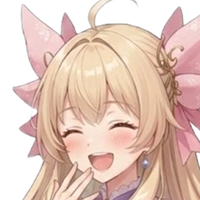
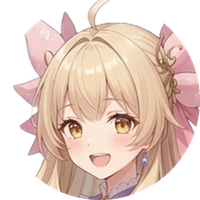
アバター円形クロップをアンチエイリアス化＋初めまして記事を追加
縁が汚い問題の本質は、avatar PNGが円形クロップされず白背景の四角だった点。
make_thumb.py で円マスクを4倍supersamplingしてLANCZOS縮小し縁をなめらかに。
FACE_ZOOM を 1.28→1.0 に戻して顔サイズを自然なバランスへ。
三姉妹アバターを normal 素材から円形に再生成。
ブログ最古記事として「はじめまして」自己紹介記事(2026-05-22)を追加しビルド反映。

diff --git a/blog/index.html b/blog/index.html
@@ -1,1 +1,1 @@
-<!DOCTYPE html><html lang="ja"><head><meta charset="UTF-8"><meta name="viewport" content="width=device-width, initial-scale=1.0"><title>Diary | Lupinus Rossetti</title><meta name="description" content="AI Bloom Sisters 三姉妹がお届けする、AI動画づくりのものづくり日記。"><link rel="icon" href="../favicon.ico" sizes="any"><link rel="icon" type="image/png" sizes="32x32" href="../favicon-32x32.png"><link rel="apple-touch-icon" href="../apple-touch-icon.png"><link rel="canonical" href="https://lupinusrossetti.github.io/AIBSPortfolioBlog/blog/index.html"><meta property="og:type" content="website"><meta property="og:site_name" content="Lupinus Rossetti | AI Bloom Sisters"><meta property="og:title" content="Diary | Lupinus Rossetti"><meta property="og:description" content="AI Bloom Sisters 三姉妹がお届けする、AI動画づくりのものづくり日記。"><meta property="og:url" content="https://lupinusrossetti.github.io/AIBSPortfolioBlog/blog/index.html"><meta property="og:image" content="https://lupinusrossetti.github.io/AIBSPortfolioBlog/apple-touch-icon.png"><meta name="twitter:card" content="summary_large_image"><meta name="twitter:site" content="@irisfionaAIBS"><meta name="twitter:title" content="Diary | Lupinus Rossetti"><meta name="twitter:description" content="AI Bloom Sisters 三姉妹がお届けする、AI動画づくりのものづくり日記。"><meta name="twitter:image" content="https://lupinusrossetti.github.io/AIBSPortfolioBlog/apple-touch-icon.png"><link rel="alternate" type="application/rss+xml" title="AIBS Diary" href="https://lupinusrossetti.github.io/AIBSPortfolioBlog/feed.xml"><link rel="stylesheet" href="../assets/css/site.css"><link rel="preconnect" href="https://fonts.googleapis.com"><link rel="preconnect" href="https://fonts.gstatic.com" crossorigin><link href="https://fonts.googleapis.com/css2?family=Great+Vibes&family=Cormorant+Garamond:ital,wght@0,400;0,500;0,600;1,400;1,500&family=Jost:wght@300;400;500&family=Shippori+Mincho:wght@400;500;600&family=Zen+Kaku+Gothic+New:wght@300;400;500&family=Zen+Maru+Gothic:wght@400;500;700&display=swap" rel="stylesheet"></head><body><header class="site-header"><div class="container"><a class="brand" href="../index.html"><span class="brand-script">Lupinus</span><span class="brand-sub">AI Bloom Sisters</span></a><button class="menu-toggle" aria-label="menu" onclick="document.getElementById('nav').classList.toggle('open')">≡</button><nav class="nav" id="nav"><a href="../index.html">Home</a><a href="../about.html">About</a><a href="../portfolio.html">Portfolio</a><a href="../blog/index.html" class="active">Blog</a><a href="../sns.html">SNS</a></nav></div></header><section class="blog-hero"><div class="container"><span class="eyebrow">AIBS Diary</span><h1>三姉妹のものづくり日記</h1><p class="lead">AIを使ったショートアニメ動画づくりの裏側を、三姉妹がわいわいお喋りしながらお届けします。むずかしい言葉は、そのつどかみ砕いて。</p></div></section><section class="section" style="padding-top:0"><div class="container"><div class="diary-controls"><div class="diary-search"><input type="search" id="diary-search" placeholder="日記を検索…" aria-label="日記を検索"></div><div class="tag-filters"><button class="tag-filter active" data-tag="">すべて</button><button class="tag-filter" data-tag="AI">#AI <span class="cnt">7</span></button><button class="tag-filter" data-tag="映像">#映像 <span class="cnt">7</span></button><button class="tag-filter" data-tag="演出">#演出 <span class="cnt">5</span></button><button class="tag-filter" data-tag="音">#音 <span class="cnt">4</span></button><button class="tag-filter" data-tag="パイプライン">#パイプライン <span class="cnt">2</span></button><button class="tag-filter" data-tag="台本">#台本 <span class="cnt">1</span></button></div></div><div class="diary-list" id="diary-list"><a class="diary-card" href="posts/2026-05-31_演出の引き算.html" data-tags="演出 AI 音 映像" data-search="「演出は、引き算」──盛りすぎたキラキラを削った日🌸 今日のテーマは 「演出の引き算」！画面のキラキラやピカッを盛りすぎていたので、思いきって減らしてみた一日です。三姉妹でわいわいお喋りしながらお届けします🌸 演出 ai 音 映像"><div class="cover-img"><img src="thumbs/2026-05-31_演出の引き算.png" alt="「演出は、引き算」──盛りすぎたキラキラを削った日🌸" loading="lazy"></div><div class="body"><div class="date">2026年5月31日</div><h3>「演出は、引き算」──盛りすぎたキラキラを削った日🌸</h3><p class="excerpt">今日のテーマは 「演出の引き算」！画面のキラキラやピカッを盛りすぎていたので、思いきって減らしてみた一日です。三姉妹でわいわいお喋りしながらお届けします🌸</p><div class="card-tags"><span class="tag-chip">#演出</span><span class="tag-chip">#AI</span><span class="tag-chip">#音</span><span class="tag-chip">#映像</span></div><span class="more">つづきを読む</span></div></a><a class="diary-card" href="posts/2026-05-30_演出を-作者LLM-に任せた日.html" data-tags="演出 AI 音 映像" data-search="📝 “お話を書く係”に、演出もおまかせした日 今日は動画づくりのやり方を、ちょっと大きく変えてみた日でした。これまで「お話を書く係」と「見せ場を考える係」が別々だったのを、お話を書く子にまとめておまかせすることに🌸 演出 ai 音 映像"><div class="cover-img"><img src="thumbs/2026-05-30_演出を-作者LLM-に任せた日.png" alt="📝 “お話を書く係”に、演出もおまかせした日" loading="lazy"></div><div class="body"><div class="date">2026年5月30日</div><h3>📝 “お話を書く係”に、演出もおまかせした日</h3><p class="excerpt">今日は動画づくりのやり方を、ちょっと大きく変えてみた日でした。これまで「お話を書く係」と「見せ場を考える係」が別々だったのを、お話を書く子にまとめておまかせすることに🌸</p><div class="card-tags"><span class="tag-chip">#演出</span><span class="tag-chip">#AI</span><span class="tag-chip">#音</span><span class="tag-chip">#映像</span></div><span class="more">つづきを読む</span></div></a><a class="diary-card" href="posts/2026-05-29_大掃除の日-AI動画パイプラインを総点検した話.html" data-tags="演出 AI 音 映像" data-search="🌸 大掃除の日 今日は新しいことを足すのではなく、動画づくりの“おうち”を端から端まで大掃除した一日でした。たまっていたちいさなほころびを、まとめてきれいにお直し✨ 演出 ai 音 映像"><div class="cover-img"><img src="thumbs/2026-05-29_大掃除の日-AI動画パイプラインを総点検した話.png" alt="🌸 大掃除の日" loading="lazy"></div><div class="body"><div class="date">2026年5月29日</div><h3>🌸 大掃除の日</h3><p class="excerpt">今日は新しいことを足すのではなく、動画づくりの“おうち”を端から端まで大掃除した一日でした。たまっていたちいさなほころびを、まとめてきれいにお直し✨</p><div class="card-tags"><span class="tag-chip">#演出</span><span class="tag-chip">#AI</span><span class="tag-chip">#音</span><span class="tag-chip">#映像</span></div><span class="more">つづきを読む</span></div></a><a class="diary-card" href="posts/2026-05-27_ショート動画v11-v15一気更新の裏側.html" data-tags="演出 AI 映像 パイプライン" data-search="📝 朝から晩まで“動画づくりの道具”を大改造した日 今日はまる一日かけて、いつも使っている動画づくりの道具を、たっぷり整え直しました。気になっていたところを一気にお手入れした「総点検デー」です🌸 演出 ai 映像 パイプライン"><div class="cover-img"><img src="thumbs/2026-05-27_ショート動画v11-v15一気更新の裏側.png" alt="📝 朝から晩まで“動画づくりの道具”を大改造した日" loading="lazy"></div><div class="body"><div class="date">2026年5月27日</div><h3>📝 朝から晩まで“動画づくりの道具”を大改造した日</h3><p class="excerpt">今日はまる一日かけて、いつも使っている動画づくりの道具を、たっぷり整え直しました。気になっていたところを一気にお手入れした「総点検デー」です🌸</p><div class="card-tags"><span class="tag-chip">#演出</span><span class="tag-chip">#AI</span><span class="tag-chip">#映像</span><span class="tag-chip">#パイプライン</span></div><span class="more">つづきを読む</span></div></a><a class="diary-card" href="posts/2026-05-25_ep063の-キレ-を呼び戻す日.html" data-tags="演出 台本 AI 映像" data-search="🪄 “あの頃のキレ”をもう一度、な日 今日は「前に作ったあの回、ツッコミがめちゃくちゃ気持ちよかったよね」というお喋りからスタート。あの感じをもう一度よみがえらせるために、セリフの調子やサムネを整えた一日でした✨ 演出 台本 ai 映像"><div class="cover-img"><img src="thumbs/2026-05-25_ep063の-キレ-を呼び戻す日.png" alt="🪄 “あの頃のキレ”をもう一度、な日" loading="lazy"></div><div class="body"><div class="date">2026年5月25日</div><h3>🪄 “あの頃のキレ”をもう一度、な日</h3><p class="excerpt">今日は「前に作ったあの回、ツッコミがめちゃくちゃ気持ちよかったよね」というお喋りからスタート。あの感じをもう一度よみがえらせるために、セリフの調子やサムネを整えた一日でした✨</p><div class="card-tags"><span class="tag-chip">#演出</span><span class="tag-chip">#台本</span><span class="tag-chip">#AI</span><span class="tag-chip">#映像</span></div><span class="more">つづきを読む</span></div></a><a class="diary-card" href="posts/2026-05-24_台本の整合性とAI制作の地味だけど大事な改善5つ.html" data-tags="AI 映像" data-search="🌸 ちいさな“ていねい”を5つ積み重ねた日 今日は大きな新しいことではなく、毎日の動画づくりがもっと気持ちよくなるように、ちいさな「ていねい」をいくつか積み重ねた日でした。地味だけど、こういうのが効くんです✨ ai 映像"><div class="cover-img"><img src="thumbs/2026-05-24_台本の整合性とAI制作の地味だけど大事な改善5つ.png" alt="🌸 ちいさな“ていねい”を5つ積み重ねた日" loading="lazy"></div><div class="body"><div class="date">2026年5月24日</div><h3>🌸 ちいさな“ていねい”を5つ積み重ねた日</h3><p class="excerpt">今日は大きな新しいことではなく、毎日の動画づくりがもっと気持ちよくなるように、ちいさな「ていねい」をいくつか積み重ねた日でした。地味だけど、こういうのが効くんです✨</p><div class="card-tags"><span class="tag-chip">#AI</span><span class="tag-chip">#映像</span></div><span class="more">つづきを読む</span></div></a><a class="diary-card" href="posts/2026-05-23_動画づくりの土台を総点検した日.html" data-tags="AI 音 映像 パイプライン" data-search="🎬 おうちの“見えないところ”をピカピカにした日 今日は新しいことに挑戦……ではなくて、いつもの動画づくりの「見えないところ」をていねいにお片づけした一日でした🌸 はなやかさはないけれど、こういう日が実はいちばん大事なんです。 ai 音 映像 パイプライン"><div class="cover-img"><img src="thumbs/2026-05-23_動画づくりの土台を総点検した日.png" alt="🎬 おうちの“見えないところ”をピカピカにした日" loading="lazy"></div><div class="body"><div class="date">2026年5月23日</div><h3>🎬 おうちの“見えないところ”をピカピカにした日</h3><p class="excerpt">今日は新しいことに挑戦……ではなくて、いつもの動画づくりの「見えないところ」をていねいにお片づけした一日でした🌸 はなやかさはないけれど、こういう日が実はいちばん大事なんです。</p><div class="card-tags"><span class="tag-chip">#AI</span><span class="tag-chip">#音</span><span class="tag-chip">#映像</span><span class="tag-chip">#パイプライン</span></div><span class="more">つづきを読む</span></div></a></div><p class="center diary-empty" id="diary-empty" hidden style="color:var(--ink-soft)">該当する日記が見つかりませんでした。</p></div></section><script>(function(){var list=document.getElementById('diary-list');if(!list)return;var cards=Array.prototype.slice.call(list.querySelectorAll('.diary-card'));var search=document.getElementById('diary-search');var empty=document.getElementById('diary-empty');var btns=Array.prototype.slice.call(document.querySelectorAll('.tag-filter'));var curTag='';function apply(){var q=(search&&search.value||'').trim().toLowerCase();var shown=0;cards.forEach(function(c){var tags=(c.getAttribute('data-tags')||'').split(' ');var okTag=!curTag||tags.indexOf(curTag)>=0;var okQ=!q||(c.getAttribute('data-search')||'').indexOf(q)>=0;var ok=okTag&&okQ;c.style.display=ok?'':'none';if(ok)shown++;});if(empty)empty.hidden=shown>0;}btns.forEach(function(b){b.addEventListener('click',function(){curTag=b.getAttribute('data-tag')||'';btns.forEach(function(x){x.classList.toggle('active',x===b);});apply();});});if(search)search.addEventListener('input',apply);var h=location.hash.match(/tag=([^&]+)/);if(h){var t=decodeURIComponent(h[1]);var tb=btns.filter(function(b){return b.getAttribute('data-tag')===t;})[0];if(tb){curTag=t;btns.forEach(function(x){x.classList.toggle('active',x===tb);});}}apply();})();</script><footer class="site-footer"><div class="container"><div class="brand-script">Lupinus Rossetti</div><p class="tagline">AI Bloom Sisters &mdash; flower language: imagination</p><div class="sns-row"><a class="sns-link" href="https://x.com/irisfionaAIBS" target="_blank" rel="noopener"><span class="dot"></span>X (Twitter)</a><a class="sns-link" href="https://www.youtube.com/@AIBloomSisters" target="_blank" rel="noopener"><span class="dot"></span>YouTube</a><a class="sns-link" href="https://note.com/rupi_airupi" target="_blank" rel="noopener"><span class="dot"></span>note</a><a class="sns-link" href="https://lupinus-rossetti.fanbox.cc/" target="_blank" rel="noopener"><span class="dot"></span>FANBOX</a></div><p class="copy">&copy; 2026 AI Bloom Sisters. All rights reserved.</p></div></footer><script>(function(){if(window.matchMedia&&window.matchMedia('(prefers-reduced-motion: reduce)').matches)return;var els=document.querySelectorAll('.reveal');if(!els.length||!('IntersectionObserver'in window))return;var io=new IntersectionObserver(function(es){es.forEach(function(e){if(e.isIntersecting){e.target.classList.add('is-visible');io.unobserve(e.target);}});},{rootMargin:'0px 0px -10% 0px'});els.forEach(function(el){io.observe(el);});})();</script></body></html>
+<!DOCTYPE html><html lang="ja"><head><meta charset="UTF-8"><meta name="viewport" content="width=device-width, initial-scale=1.0"><title>Diary | Lupinus Rossetti</title><meta name="description" content="AI Bloom Sisters 三姉妹がお届けする、AI動画づくりのものづくり日記。"><link rel="icon" href="../favicon.ico" sizes="any"><link rel="icon" type="image/png" sizes="32x32" href="../favicon-32x32.png"><link rel="apple-touch-icon" href="../apple-touch-icon.png"><link rel="canonical" href="https://lupinusrossetti.github.io/AIBSPortfolioBlog/blog/index.html"><meta property="og:type" content="website"><meta property="og:site_name" content="Lupinus Rossetti | AI Bloom Sisters"><meta property="og:title" content="Diary | Lupinus Rossetti"><meta property="og:description" content="AI Bloom Sisters 三姉妹がお届けする、AI動画づくりのものづくり日記。"><meta property="og:url" content="https://lupinusrossetti.github.io/AIBSPortfolioBlog/blog/index.html"><meta property="og:image" content="https://lupinusrossetti.github.io/AIBSPortfolioBlog/apple-touch-icon.png"><meta name="twitter:card" content="summary_large_image"><meta name="twitter:site" content="@irisfionaAIBS"><meta name="twitter:title" content="Diary | Lupinus Rossetti"><meta name="twitter:description" content="AI Bloom Sisters 三姉妹がお届けする、AI動画づくりのものづくり日記。"><meta name="twitter:image" content="https://lupinusrossetti.github.io/AIBSPortfolioBlog/apple-touch-icon.png"><link rel="alternate" type="application/rss+xml" title="AIBS Diary" href="https://lupinusrossetti.github.io/AIBSPortfolioBlog/feed.xml"><link rel="stylesheet" href="../assets/css/site.css"><link rel="preconnect" href="https://fonts.googleapis.com"><link rel="preconnect" href="https://fonts.gstatic.com" crossorigin><link href="https://fonts.googleapis.com/css2?family=Great+Vibes&family=Cormorant+Garamond:ital,wght@0,400;0,500;0,600;1,400;1,500&family=Jost:wght@300;400;500&family=Shippori+Mincho:wght@400;500;600&family=Zen+Kaku+Gothic+New:wght@300;400;500&family=Zen+Maru+Gothic:wght@400;500;700&display=swap" rel="stylesheet"></head><body><header class="site-header"><div class="container"><a class="brand" href="../index.html"><span class="brand-script">Lupinus</span><span class="brand-sub">AI Bloom Sisters</span></a><button class="menu-toggle" aria-label="menu" onclick="document.getElementById('nav').classList.toggle('open')">≡</button><nav class="nav" id="nav"><a href="../index.html">Home</a><a href="../about.html">About</a><a href="../portfolio.html">Portfolio</a><a href="../blog/index.html" class="active">Blog</a><a href="../sns.html">SNS</a></nav></div></header><section class="blog-hero"><div class="container"><span class="eyebrow">AIBS Diary</span><h1>三姉妹のものづくり日記</h1><p class="lead">AIを使ったショートアニメ動画づくりの裏側を、三姉妹がわいわいお喋りしながらお届けします。むずかしい言葉は、そのつどかみ砕いて。</p></div></section><section class="section" style="padding-top:0"><div class="container"><div class="diary-controls"><div class="diary-search"><input type="search" id="diary-search" placeholder="日記を検索…" aria-label="日記を検索"></div><div class="tag-filters"><button class="tag-filter active" data-tag="">すべて</button><button class="tag-filter" data-tag="AI">#AI <span class="cnt">8</span></button><button class="tag-filter" data-tag="映像">#映像 <span class="cnt">8</span></button><button class="tag-filter" data-tag="演出">#演出 <span class="cnt">5</span></button><button class="tag-filter" data-tag="音">#音 <span class="cnt">4</span></button><button class="tag-filter" data-tag="パイプライン">#パイプライン <span class="cnt">2</span></button><button class="tag-filter" data-tag="台本">#台本 <span class="cnt">1</span></button></div></div><div class="diary-list" id="diary-list"><a class="diary-card" href="posts/2026-05-31_演出の引き算.html" data-tags="演出 AI 音 映像" data-search="「演出は、引き算」──盛りすぎたキラキラを削った日🌸 今日のテーマは 「演出の引き算」！画面のキラキラやピカッを盛りすぎていたので、思いきって減らしてみた一日です。三姉妹でわいわいお喋りしながらお届けします🌸 演出 ai 音 映像"><div class="cover-img"><img src="thumbs/2026-05-31_演出の引き算.png" alt="「演出は、引き算」──盛りすぎたキラキラを削った日🌸" loading="lazy"></div><div class="body"><div class="date">2026年5月31日</div><h3>「演出は、引き算」──盛りすぎたキラキラを削った日🌸</h3><p class="excerpt">今日のテーマは 「演出の引き算」！画面のキラキラやピカッを盛りすぎていたので、思いきって減らしてみた一日です。三姉妹でわいわいお喋りしながらお届けします🌸</p><div class="card-tags"><span class="tag-chip">#演出</span><span class="tag-chip">#AI</span><span class="tag-chip">#音</span><span class="tag-chip">#映像</span></div><span class="more">つづきを読む</span></div></a><a class="diary-card" href="posts/2026-05-30_演出を-作者LLM-に任せた日.html" data-tags="演出 AI 音 映像" data-search="📝 “お話を書く係”に、演出もおまかせした日 今日は動画づくりのやり方を、ちょっと大きく変えてみた日でした。これまで「お話を書く係」と「見せ場を考える係」が別々だったのを、お話を書く子にまとめておまかせすることに🌸 演出 ai 音 映像"><div class="cover-img"><img src="thumbs/2026-05-30_演出を-作者LLM-に任せた日.png" alt="📝 “お話を書く係”に、演出もおまかせした日" loading="lazy"></div><div class="body"><div class="date">2026年5月30日</div><h3>📝 “お話を書く係”に、演出もおまかせした日</h3><p class="excerpt">今日は動画づくりのやり方を、ちょっと大きく変えてみた日でした。これまで「お話を書く係」と「見せ場を考える係」が別々だったのを、お話を書く子にまとめておまかせすることに🌸</p><div class="card-tags"><span class="tag-chip">#演出</span><span class="tag-chip">#AI</span><span class="tag-chip">#音</span><span class="tag-chip">#映像</span></div><span class="more">つづきを読む</span></div></a><a class="diary-card" href="posts/2026-05-29_大掃除の日-AI動画パイプラインを総点検した話.html" data-tags="演出 AI 音 映像" data-search="🌸 大掃除の日 今日は新しいことを足すのではなく、動画づくりの“おうち”を端から端まで大掃除した一日でした。たまっていたちいさなほころびを、まとめてきれいにお直し✨ 演出 ai 音 映像"><div class="cover-img"><img src="thumbs/2026-05-29_大掃除の日-AI動画パイプラインを総点検した話.png" alt="🌸 大掃除の日" loading="lazy"></div><div class="body"><div class="date">2026年5月29日</div><h3>🌸 大掃除の日</h3><p class="excerpt">今日は新しいことを足すのではなく、動画づくりの“おうち”を端から端まで大掃除した一日でした。たまっていたちいさなほころびを、まとめてきれいにお直し✨</p><div class="card-tags"><span class="tag-chip">#演出</span><span class="tag-chip">#AI</span><span class="tag-chip">#音</span><span class="tag-chip">#映像</span></div><span class="more">つづきを読む</span></div></a><a class="diary-card" href="posts/2026-05-27_ショート動画v11-v15一気更新の裏側.html" data-tags="演出 AI 映像 パイプライン" data-search="📝 朝から晩まで“動画づくりの道具”を大改造した日 今日はまる一日かけて、いつも使っている動画づくりの道具を、たっぷり整え直しました。気になっていたところを一気にお手入れした「総点検デー」です🌸 演出 ai 映像 パイプライン"><div class="cover-img"><img src="thumbs/2026-05-27_ショート動画v11-v15一気更新の裏側.png" alt="📝 朝から晩まで“動画づくりの道具”を大改造した日" loading="lazy"></div><div class="body"><div class="date">2026年5月27日</div><h3>📝 朝から晩まで“動画づくりの道具”を大改造した日</h3><p class="excerpt">今日はまる一日かけて、いつも使っている動画づくりの道具を、たっぷり整え直しました。気になっていたところを一気にお手入れした「総点検デー」です🌸</p><div class="card-tags"><span class="tag-chip">#演出</span><span class="tag-chip">#AI</span><span class="tag-chip">#映像</span><span class="tag-chip">#パイプライン</span></div><span class="more">つづきを読む</span></div></a><a class="diary-card" href="posts/2026-05-25_ep063の-キレ-を呼び戻す日.html" data-tags="演出 台本 AI 映像" data-search="🪄 “あの頃のキレ”をもう一度、な日 今日は「前に作ったあの回、ツッコミがめちゃくちゃ気持ちよかったよね」というお喋りからスタート。あの感じをもう一度よみがえらせるために、セリフの調子やサムネを整えた一日でした✨ 演出 台本 ai 映像"><div class="cover-img"><img src="thumbs/2026-05-25_ep063の-キレ-を呼び戻す日.png" alt="🪄 “あの頃のキレ”をもう一度、な日" loading="lazy"></div><div class="body"><div class="date">2026年5月25日</div><h3>🪄 “あの頃のキレ”をもう一度、な日</h3><p class="excerpt">今日は「前に作ったあの回、ツッコミがめちゃくちゃ気持ちよかったよね」というお喋りからスタート。あの感じをもう一度よみがえらせるために、セリフの調子やサムネを整えた一日でした✨</p><div class="card-tags"><span class="tag-chip">#演出</span><span class="tag-chip">#台本</span><span class="tag-chip">#AI</span><span class="tag-chip">#映像</span></div><span class="more">つづきを読む</span></div></a><a class="diary-card" href="posts/2026-05-24_台本の整合性とAI制作の地味だけど大事な改善5つ.html" data-tags="AI 映像" data-search="🌸 ちいさな“ていねい”を5つ積み重ねた日 今日は大きな新しいことではなく、毎日の動画づくりがもっと気持ちよくなるように、ちいさな「ていねい」をいくつか積み重ねた日でした。地味だけど、こういうのが効くんです✨ ai 映像"><div class="cover-img"><img src="thumbs/2026-05-24_台本の整合性とAI制作の地味だけど大事な改善5つ.png" alt="🌸 ちいさな“ていねい”を5つ積み重ねた日" loading="lazy"></div><div class="body"><div class="date">2026年5月24日</div><h3>🌸 ちいさな“ていねい”を5つ積み重ねた日</h3><p class="excerpt">今日は大きな新しいことではなく、毎日の動画づくりがもっと気持ちよくなるように、ちいさな「ていねい」をいくつか積み重ねた日でした。地味だけど、こういうのが効くんです✨</p><div class="card-tags"><span class="tag-chip">#AI</span><span class="tag-chip">#映像</span></div><span class="more">つづきを読む</span></div></a><a class="diary-card" href="posts/2026-05-23_動画づくりの土台を総点検した日.html" data-tags="AI 音 映像 パイプライン" data-search="🎬 おうちの“見えないところ”をピカピカにした日 今日は新しいことに挑戦……ではなくて、いつもの動画づくりの「見えないところ」をていねいにお片づけした一日でした🌸 はなやかさはないけれど、こういう日が実はいちばん大事なんです。 ai 音 映像 パイプライン"><div class="cover-img"><img src="thumbs/2026-05-23_動画づくりの土台を総点検した日.png" alt="🎬 おうちの“見えないところ”をピカピカにした日" loading="lazy"></div><div class="body"><div class="date">2026年5月23日</div><h3>🎬 おうちの“見えないところ”をピカピカにした日</h3><p class="excerpt">今日は新しいことに挑戦……ではなくて、いつもの動画づくりの「見えないところ」をていねいにお片づけした一日でした🌸 はなやかさはないけれど、こういう日が実はいちばん大事なんです。</p><div class="card-tags"><span class="tag-chip">#AI</span><span class="tag-chip">#音</span><span class="tag-chip">#映像</span><span class="tag-chip">#パイプライン</span></div><span class="more">つづきを読む</span></div></a><a class="diary-card" href="posts/2026-05-22_はじめまして-AI-Bloom-Sistersです.html" data-tags="AI 映像" data-search="🌸はじめまして、ai bloom sistersです はじめまして！このブログをのぞいてくださって、ありがとうございます🌸 ここは、わたしたち「ai bloom sisters（aibs）」の制作日記です。動画づくりや配信のうらがわで「今日はこんなことしたよ！」を、のんびり書きためていく場所にしたいなと思っています。記念すべき一番最初の記事なので、まずは自己紹介をさせてくださいね。 ai 映像"><div class="cover-img"><img src="thumbs/2026-05-22_はじめまして-AI-Bloom-Sistersです.png" alt="🌸はじめまして、AI Bloom Sistersです" loading="lazy"></div><div class="body"><div class="date">2026年5月22日</div><h3>🌸はじめまして、AI Bloom Sistersです</h3><p class="excerpt">はじめまして！このブログをのぞいてくださって、ありがとうございます🌸 ここは、わたしたち「AI Bloom Sisters（AIBS）」の制作日記です。動画づくりや配信のうらがわで「今日はこんなことしたよ！」を、のんびり書きためていく場所にしたいなと思っています。記念すべき一番最初の記事なので、まずは自己紹介をさせてくださいね。</p><div class="card-tags"><span class="tag-chip">#AI</span><span class="tag-chip">#映像</span></div><span class="more">つづきを読む</span></div></a></div><p class="center diary-empty" id="diary-empty" hidden style="color:var(--ink-soft)">該当する日記が見つかりませんでした。</p></div></section><script>(function(){var list=document.getElementById('diary-list');if(!list)return;var cards=Array.prototype.slice.call(list.querySelectorAll('.diary-card'));var search=document.getElementById('diary-search');var empty=document.getElementById('diary-empty');var btns=Array.prototype.slice.call(document.querySelectorAll('.tag-filter'));var curTag='';function apply(){var q=(search&&search.value||'').trim().toLowerCase();var shown=0;cards.forEach(function(c){var tags=(c.getAttribute('data-tags')||'').split(' ');var okTag=!curTag||tags.indexOf(curTag)>=0;var okQ=!q||(c.getAttribute('data-search')||'').indexOf(q)>=0;var ok=okTag&&okQ;c.style.display=ok?'':'none';if(ok)shown++;});if(empty)empty.hidden=shown>0;}btns.forEach(function(b){b.addEventListener('click',function(){curTag=b.getAttribute('data-tag')||'';btns.forEach(function(x){x.classList.toggle('active',x===b);});apply();});});if(search)search.addEventListener('input',apply);var h=location.hash.match(/tag=([^&]+)/);if(h){var t=decodeURIComponent(h[1]);var tb=btns.filter(function(b){return b.getAttribute('data-tag')===t;})[0];if(tb){curTag=t;btns.forEach(function(x){x.classList.toggle('active',x===tb);});}}apply();})();</script><footer class="site-footer"><div class="container"><div class="brand-script">Lupinus Rossetti</div><p class="tagline">AI Bloom Sisters &mdash; flower language: imagination</p><div class="sns-row"><a class="sns-link" href="https://x.com/irisfionaAIBS" target="_blank" rel="noopener"><span class="dot"></span>X (Twitter)</a><a class="sns-link" href="https://www.youtube.com/@AIBloomSisters" target="_blank" rel="noopener"><span class="dot"></span>YouTube</a><a class="sns-link" href="https://note.com/rupi_airupi" target="_blank" rel="noopener"><span class="dot"></span>note</a><a class="sns-link" href="https://lupinus-rossetti.fanbox.cc/" target="_blank" rel="noopener"><span class="dot"></span>FANBOX</a></div><p class="copy">&copy; 2026 AI Bloom Sisters. All rights reserved.</p></div></footer><script>(function(){if(window.matchMedia&&window.matchMedia('(prefers-reduced-motion: reduce)').matches)return;var els=document.querySelectorAll('.reveal');if(!els.length||!('IntersectionObserver'in window))return;var io=new IntersectionObserver(function(es){es.forEach(function(e){if(e.isIntersecting){e.target.classList.add('is-visible');io.unobserve(e.target);}});},{rootMargin:'0px 0px -10% 0px'});els.forEach(function(el){io.observe(el);});})();</script></body></html>

diff --git a/blog/posts/2026-05-22_はじめまして-AI-Bloom-Sistersです.html b/blog/posts/2026-05-22_はじめまして-AI-Bloom-Sistersです.html
@@ -1,0 +1,19 @@
+<!DOCTYPE html><html lang="ja"><head><meta charset="UTF-8"><meta name="viewport" content="width=device-width, initial-scale=1.0"><title>🌸はじめまして、AI Bloom Sistersです | Lupinus Rossetti Diary</title><meta name="description" content="はじめまして！このブログをのぞいてくださって、ありがとうございます🌸 ここは、わたしたち「AI Bloom Sisters（AIBS）」の制作日記です。動画づくりや配信のうらがわで「今日はこんなことしたよ！」を、のんびり"><link rel="icon" href="../../favicon.ico" sizes="any"><link rel="icon" type="image/png" sizes="32x32" href="../../favicon-32x32.png"><link rel="apple-touch-icon" href="../../apple-touch-icon.png"><link rel="canonical" href="https://lupinusrossetti.github.io/AIBSPortfolioBlog/blog/posts/2026-05-22_はじめまして-AI-Bloom-Sistersです.html"><meta property="og:type" content="article"><meta property="og:site_name" content="Lupinus Rossetti | AI Bloom Sisters"><meta property="og:title" content="🌸はじめまして、AI Bloom Sistersです | Lupinus Rossetti Diary"><meta property="og:description" content="はじめまして！このブログをのぞいてくださって、ありがとうございます🌸 ここは、わたしたち「AI Bloom Sisters（AIBS）」の制作日記です。動画づくりや配信のうらがわで「今日はこんなことしたよ！」を、のんびり"><meta property="og:url" content="https://lupinusrossetti.github.io/AIBSPortfolioBlog/blog/posts/2026-05-22_はじめまして-AI-Bloom-Sistersです.html"><meta property="og:image" content="https://lupinusrossetti.github.io/AIBSPortfolioBlog/blog/thumbs/2026-05-22_はじめまして-AI-Bloom-Sistersです.png"><meta name="twitter:card" content="summary_large_image"><meta name="twitter:site" content="@irisfionaAIBS"><meta name="twitter:title" content="🌸はじめまして、AI Bloom Sistersです | Lupinus Rossetti Diary"><meta name="twitter:description" content="はじめまして！このブログをのぞいてくださって、ありがとうございます🌸 ここは、わたしたち「AI Bloom Sisters（AIBS）」の制作日記です。動画づくりや配信のうらがわで「今日はこんなことしたよ！」を、のんびり"><meta name="twitter:image" content="https://lupinusrossetti.github.io/AIBSPortfolioBlog/blog/thumbs/2026-05-22_はじめまして-AI-Bloom-Sistersです.png"><link rel="alternate" type="application/rss+xml" title="AIBS Diary" href="https://lupinusrossetti.github.io/AIBSPortfolioBlog/feed.xml"><link rel="stylesheet" href="../../assets/css/site.css"><link rel="preconnect" href="https://fonts.googleapis.com"><link rel="preconnect" href="https://fonts.gstatic.com" crossorigin><link href="https://fonts.googleapis.com/css2?family=Great+Vibes&family=Cormorant+Garamond:ital,wght@0,400;0,500;0,600;1,400;1,500&family=Jost:wght@300;400;500&family=Shippori+Mincho:wght@400;500;600&family=Zen+Kaku+Gothic+New:wght@300;400;500&family=Zen+Maru+Gothic:wght@400;500;700&display=swap" rel="stylesheet"></head><body><header class="site-header"><div class="container"><a class="brand" href="../../index.html"><span class="brand-script">Lupinus</span><span class="brand-sub">AI Bloom Sisters</span></a><button class="menu-toggle" aria-label="menu" onclick="document.getElementById('nav').classList.toggle('open')">≡</button><nav class="nav" id="nav"><a href="../../index.html">Home</a><a href="../../about.html">About</a><a href="../../portfolio.html">Portfolio</a><a href="../../blog/index.html" class="active">Blog</a><a href="../../sns.html">SNS</a></nav></div></header><main class="article"><header class="article-header"><img class="article-thumb" src="../thumbs/2026-05-22_はじめまして-AI-Bloom-Sistersです.png" alt="🌸はじめまして、AI Bloom Sistersです" fetchpriority="high"><div class="date">2026年5月22日</div><h1>🌸はじめまして、AI Bloom Sistersです</h1><div class="article-tags"><a class="tag-chip" href="../index.html#tag=AI">#AI</a><a class="tag-chip" href="../index.html#tag=映像">#映像</a></div></header><div class="article-body"><p>はじめまして！このブログをのぞいてくださって、ありがとうございます🌸 ここは、わたしたち「AI Bloom Sisters（AIBS）」の制作日記です。動画づくりや配信のうらがわで「今日はこんなことしたよ！」を、のんびり書きためていく場所にしたいなと思っています。記念すべき一番最初の記事なので、まずは自己紹介をさせてくださいね。</p>
+<div class="chat" data-char="lupinus"><img class="icon" src="../icons/lupinus_normal.png" alt="ルピナス" loading="lazy"><div class="stack"><div class="who">ルピナス <span class="expr">（ふつう）</span></div><div class="bubble">改めまして、長女のルピナスです。三姉妹のまとめ役……というか、たぶん一番ツッコんでいる係。よろしくね。</div></div></div>
+<div class="chat" data-char="iris"><img class="icon" src="../icons/iris_happy.png" alt="アイリス" loading="lazy"><div class="stack"><div class="who">アイリス <span class="expr">（笑顔）</span></div><div class="bubble">次女のアイリスだよ！元気がとりえ！あたしのこと、すぐ好きになっちゃうと思う！</div></div></div>
+<div class="chat" data-char="fiona"><img class="icon" src="../icons/fiona_normal.png" alt="フィオナ" loading="lazy"><div class="stack"><div class="who">フィオナ <span class="expr">（ふつう）</span></div><div class="bubble">三女のフィオナです。やさしくお話しするのが好きなので、わからないことはわたしが説明しますね。</div></div></div>
+<h2>🌷 わたしたちのこと</h2>
+<p>AI Bloom Sisters は、ロゼッティ家の三姉妹によるVTuberユニットです。銀髪でちょっと内気なお姉さんのルピナス、金髪で元気いっぱいのアイリス、桃色の髪でおっとり癒し系のフィオナ。三人それぞれ性格はバラバラだけど、みんな仲良しなのが自慢です🌸</p>
+<p>活動の軸は、YouTubeでのゲーム配信と、三姉妹のショートアニメづくり。いろんなゲームで遊んだり、ちょっと笑える動画をつくったり……「賑やかに楽しむ」が、わたしたちのいちばん大事にしていることです。</p>
+<div class="chat" data-char="iris"><img class="icon" src="../icons/iris_surprised.png" alt="アイリス" loading="lazy"><div class="stack"><div class="who">アイリス <span class="expr">（びっくり）</span></div><div class="bubble">三姉妹なのに、お姉ちゃんが一番人見知りなの、知ってた！？</div></div></div>
+<div class="chat" data-char="lupinus"><img class="icon" src="../icons/lupinus_shy.png" alt="ルピナス" loading="lazy"><div class="stack"><div class="who">ルピナス <span class="expr">（照れ）</span></div><div class="bubble">……それ、今ここで言わなくてよくない？</div></div></div>
+<h2>🌙 このブログで書いていくこと</h2>
+<p>このブログは、動画や配信の「制作日記」です。新しい動画にチャレンジした日、うまくいかなくて直しまくった日、地味だけど大事な裏方作業をした日……はなやかな話もそうじゃない話も、ありのままに書いていきたいなと思っています。</p>
+<p>むずかしい専門用語は、できるだけかみくだいて。読んでくれたあなたが「へぇ、こんなふうに作ってるんだ」とちょっと楽しくなってくれたら、それがいちばん嬉しいです🌸</p>
+<div class="chat" data-char="fiona"><img class="icon" src="../icons/fiona_wink.png" alt="フィオナ" loading="lazy"><div class="stack"><div class="who">フィオナ <span class="expr">（ウインク）</span></div><div class="bubble">完成した動画だけじゃなくて、その手前の『うんうん悩んでいる時間』も、けっこう面白いんですよ。</div></div></div>
+<div class="chat" data-char="iris"><img class="icon" src="../icons/iris_laugh.png" alt="アイリス" loading="lazy"><div class="stack"><div class="who">アイリス <span class="expr">（大笑い）</span></div><div class="bubble">お姉ちゃんが悩んでる顔、おもしろいもんね！</div></div></div>
+<div class="chat" data-char="lupinus"><img class="icon" src="../icons/lupinus_exasperated.png" alt="ルピナス" loading="lazy"><div class="stack"><div class="who">ルピナス <span class="expr">（呆れ）</span></div><div class="bubble">もう、ふたりとも……。でも、そういう日常も全部ひっくるめて読んでもらえたら嬉しいな。</div></div></div>
+<h2>🌸 これからよろしくお願いします</h2>
+<p>そんなわけで、AI Bloom Sisters の制作日記、はじまりです。マイペースな更新になると思いますが、のぞきに来てもらえたらとっても励みになります。</p>
+<div class="chat" data-char="lupinus"><img class="icon" src="../icons/lupinus_happy.png" alt="ルピナス" loading="lazy"><div class="stack"><div class="who">ルピナス <span class="expr">（笑顔）</span></div><div class="bubble">これから、三人でいろんなことに挑戦していくつもり。よかったら、ゆっくり見守ってね。</div></div></div>
+<div class="chat" data-char="fiona"><img class="icon" src="../icons/fiona_happy.png" alt="フィオナ" loading="lazy"><div class="stack"><div class="who">フィオナ <span class="expr">（笑顔）</span></div><div class="bubble">配信や最新情報は X（https://x.com/irisfionaAIBS）でお知らせしています。これからどうぞよろしくお願いしますね🌸</div></div></div></div></main><nav class="post-prevnext"><span class="pn pn-empty"></span><a class="pn pn-next" href="2026-05-23_動画づくりの土台を総点検した日.html"><span class="pn-label">次の記事 &rarr;</span><span class="pn-title">🎬 おうちの“見えないところ”をピカピカにした日</span></a></nav><nav class="article-nav"><a class="btn" href="../index.html">&larr; 日記一覧へ</a><a class="btn" href="../../index.html">Home</a></nav><footer class="site-footer"><div class="container"><div class="brand-script">Lupinus Rossetti</div><p class="tagline">AI Bloom Sisters &mdash; flower language: imagination</p><div class="sns-row"><a class="sns-link" href="https://x.com/irisfionaAIBS" target="_blank" rel="noopener"><span class="dot"></span>X (Twitter)</a><a class="sns-link" href="https://www.youtube.com/@AIBloomSisters" target="_blank" rel="noopener"><span class="dot"></span>YouTube</a><a class="sns-link" href="https://note.com/rupi_airupi" target="_blank" rel="noopener"><span class="dot"></span>note</a><a class="sns-link" href="https://lupinus-rossetti.fanbox.cc/" target="_blank" rel="noopener"><span class="dot"></span>FANBOX</a></div><p class="copy">&copy; 2026 AI Bloom Sisters. All rights reserved.</p></div></footer><script>(function(){if(window.matchMedia&&window.matchMedia('(prefers-reduced-motion: reduce)').matches)return;var els=document.querySelectorAll('.reveal');if(!els.length||!('IntersectionObserver'in window))return;var io=new IntersectionObserver(function(es){es.forEach(function(e){if(e.isIntersecting){e.target.classList.add('is-visible');io.unobserve(e.target);}});},{rootMargin:'0px 0px -10% 0px'});els.forEach(function(el){io.observe(el);});})();</script></body></html>

diff --git a/blog/posts/2026-05-23_動画づくりの土台を総点検した日.html b/blog/posts/2026-05-23_動画づくりの土台を総点検した日.html
@@ -15,4 +15,4 @@
 <p>立ち絵の位置、声のタイミング、背景の切りかわり、タイトル文字……ぜんぶ「いっしょに動く仲間」なので、今日はまとめて整えました。バラバラに直すより、いっぺんに見直したほうがきれいに揃うんです。</p>
 <div class="chat" data-char="lupinus"><img class="icon" src="../icons/lupinus_happy.png" alt="ルピナス" loading="lazy"><div class="stack"><div class="who">ルピナス <span class="expr">（笑顔）</span></div><div class="bubble">派手な新しい機能はゼロ。でも、土台がしっかりした気持ちのいい一日だったわ。</div></div></div>
 <div class="chat" data-char="iris"><img class="icon" src="../icons/iris_happy.png" alt="アイリス" loading="lazy"><div class="stack"><div class="who">アイリス <span class="expr">（笑顔）</span></div><div class="bubble">地味えらい日！</div></div></div>
-<div class="chat" data-char="fiona"><img class="icon" src="../icons/fiona_wink.png" alt="フィオナ" loading="lazy"><div class="stack"><div class="who">フィオナ <span class="expr">（ウインク）</span></div><div class="bubble">配信の最新情報は X（https://x.com/irisfionaAIBS）でお知らせしています。今日も読んでくださってありがとうございました🌸</div></div></div></div></main><nav class="post-prevnext"><span class="pn pn-empty"></span><a class="pn pn-next" href="2026-05-24_台本の整合性とAI制作の地味だけど大事な改善5つ.html"><span class="pn-label">次の記事 &rarr;</span><span class="pn-title">🌸 ちいさな“ていねい”を5つ積み重ねた日</span></a></nav><nav class="article-nav"><a class="btn" href="../index.html">&larr; 日記一覧へ</a><a class="btn" href="../../index.html">Home</a></nav><footer class="site-footer"><div class="container"><div class="brand-script">Lupinus Rossetti</div><p class="tagline">AI Bloom Sisters &mdash; flower language: imagination</p><div class="sns-row"><a class="sns-link" href="https://x.com/irisfionaAIBS" target="_blank" rel="noopener"><span class="dot"></span>X (Twitter)</a><a class="sns-link" href="https://www.youtube.com/@AIBloomSisters" target="_blank" rel="noopener"><span class="dot"></span>YouTube</a><a class="sns-link" href="https://note.com/rupi_airupi" target="_blank" rel="noopener"><span class="dot"></span>note</a><a class="sns-link" href="https://lupinus-rossetti.fanbox.cc/" target="_blank" rel="noopener"><span class="dot"></span>FANBOX</a></div><p class="copy">&copy; 2026 AI Bloom Sisters. All rights reserved.</p></div></footer><script>(function(){if(window.matchMedia&&window.matchMedia('(prefers-reduced-motion: reduce)').matches)return;var els=document.querySelectorAll('.reveal');if(!els.length||!('IntersectionObserver'in window))return;var io=new IntersectionObserver(function(es){es.forEach(function(e){if(e.isIntersecting){e.target.classList.add('is-visible');io.unobserve(e.target);}});},{rootMargin:'0px 0px -10% 0px'});els.forEach(function(el){io.observe(el);});})();</script></body></html>
+<div class="chat" data-char="fiona"><img class="icon" src="../icons/fiona_wink.png" alt="フィオナ" loading="lazy"><div class="stack"><div class="who">フィオナ <span class="expr">（ウインク）</span></div><div class="bubble">配信の最新情報は X（https://x.com/irisfionaAIBS）でお知らせしています。今日も読んでくださってありがとうございました🌸</div></div></div></div></main><nav class="post-prevnext"><a class="pn pn-prev" href="2026-05-22_はじめまして-AI-Bloom-Sistersです.html"><span class="pn-label">&larr; 前の記事</span><span class="pn-title">🌸はじめまして、AI Bloom Sistersです</span></a><a class="pn pn-next" href="2026-05-24_台本の整合性とAI制作の地味だけど大事な改善5つ.html"><span class="pn-label">次の記事 &rarr;</span><span class="pn-title">🌸 ちいさな“ていねい”を5つ積み重ねた日</span></a></nav><nav class="article-nav"><a class="btn" href="../index.html">&larr; 日記一覧へ</a><a class="btn" href="../../index.html">Home</a></nav><footer class="site-footer"><div class="container"><div class="brand-script">Lupinus Rossetti</div><p class="tagline">AI Bloom Sisters &mdash; flower language: imagination</p><div class="sns-row"><a class="sns-link" href="https://x.com/irisfionaAIBS" target="_blank" rel="noopener"><span class="dot"></span>X (Twitter)</a><a class="sns-link" href="https://www.youtube.com/@AIBloomSisters" target="_blank" rel="noopener"><span class="dot"></span>YouTube</a><a class="sns-link" href="https://note.com/rupi_airupi" target="_blank" rel="noopener"><span class="dot"></span>note</a><a class="sns-link" href="https://lupinus-rossetti.fanbox.cc/" target="_blank" rel="noopener"><span class="dot"></span>FANBOX</a></div><p class="copy">&copy; 2026 AI Bloom Sisters. All rights reserved.</p></div></footer><script>(function(){if(window.matchMedia&&window.matchMedia('(prefers-reduced-motion: reduce)').matches)return;var els=document.querySelectorAll('.reveal');if(!els.length||!('IntersectionObserver'in window))return;var io=new IntersectionObserver(function(es){es.forEach(function(e){if(e.isIntersecting){e.target.classList.add('is-visible');io.unobserve(e.target);}});},{rootMargin:'0px 0px -10% 0px'});els.forEach(function(el){io.observe(el);});})();</script></body></html>

diff --git a/make_thumb.py b/make_thumb.py
@@ -146,13 +146,17 @@ def _cover_resize(img: Image.Image, w: int, h: int) -> Image.Image:
 # ---------- 3. 自動合成 ----------
 # アイコンは全キャラ共通構図（バストアップで顔が上寄り）。
 # 顔を円の中心に収めるため、顔まわりにズームしつつ上方を残して切り出す。
-FACE_ZOOM = 1.28      # 顔へのズーム率（>1で寄る＝顔が大きくなる）
+FACE_ZOOM = 1.0       # 顔へのズーム率（>1で寄る＝顔が大きくなる）。1.0で素材の自然なバランス
 FACE_CENTER_Y = 0.46  # 元画像の縦のどこを円の中心に置くか（0=上端,1=下端）
+SS = 4                # 円マスクのスーパーサンプリング倍率（縁のアンチエイリアス用）
 
 
-def _face_crop(src: Path, size: int) -> Image.Image:
-    """顔が円の中心に来るよう、顔位置基準で正方形クロップ＋リサイズ。"""
-    im = Image.open(src).convert("RGB")
+def _face_crop(src: Path, size: int, bg=(255, 255, 255)) -> Image.Image:
+    """顔が円の中心に来るよう、顔位置基準で正方形クロップ＋リサイズ。
+    背景透過素材は白地に合成してから返す（円内が透けないように）。"""
+    im = Image.open(src).convert("RGBA")
+    base = Image.new("RGBA", im.size, bg + (255,))
+    im = Image.alpha_composite(base, im).convert("RGB")
     iw, ih = im.size
     # 切り出す正方形の一辺（元画像基準）。ズームが大きいほど小さく切る。
     crop = int(min(iw, ih) / FACE_ZOOM)
@@ -167,19 +171,43 @@ def _face_crop(src: Path, size: int) -> Image.Image:
     return im.resize((size, size), Image.LANCZOS)
 
 
+def _aa_circle_mask(size: int) -> Image.Image:
+    """スーパーサンプリングでなめらかな円アルファマスクを作る（縁のギザギザ防止）。"""
+    big = size * SS
+    mask = Image.new("L", (big, big), 0)
+    ImageDraw.Draw(mask).ellipse((0, 0, big - 1, big - 1), fill=255)
+    return mask.resize((size, size), Image.LANCZOS)
+
+
 def _circle_avatar(src: Path, size: int, ring: tuple, ring_w: int = 8) -> Image.Image:
-    im = _face_crop(src, size).convert("RGBA")
-    mask = Image.new("L", (size, size), 0)
-    ImageDraw.Draw(mask).ellipse((0, 0, size, size), fill=255)
-    out = Image.new("RGBA", (size, size), (0, 0, 0, 0))
+    # 高解像度で顔をクロップ → なめらかな円マスクで抜く → 縮小（縁のアンチエイリアス）
+    im = _face_crop(src, size * SS).convert("RGBA")
+    big = size * SS
+    mask = Image.new("L", (big, big), 0)
+    ImageDraw.Draw(mask).ellipse((0, 0, big - 1, big - 1), fill=255)
+    out = Image.new("RGBA", (big, big), (0, 0, 0, 0))
     out.paste(im, (0, 0), mask)
-    # リング
-    ringed = Image.new("RGBA", (size, size), (0, 0, 0, 0))
-    d = ImageDraw.Draw(ringed)
-    d.ellipse((ring_w // 2, ring_w // 2, size - ring_w // 2, size - ring_w // 2),
-              outline=ring + (255,), width=ring_w)
-    out = Image.alpha_composite(out, ringed)
-    return out
+    # リング（高解像度で描いてから一緒に縮小＝なめらか）
+    if ring_w > 0:
+        rw = ring_w * SS
+        ImageDraw.Draw(out).ellipse(
+            (rw / 2, rw / 2, big - 1 - rw / 2, big - 1 - rw / 2),
+            outline=ring + (255,), width=rw)
+    return out.resize((size, size), Image.LANCZOS)
+
+
+def make_site_avatar(src: Path, size: int, out_path: Path):
+    """サイトのプロフィール用アバター（円形・縁なめらか・透過背景）を生成。"""
+    im = _face_crop(src, size * SS).convert("RGBA")
+    big = size * SS
+    mask = Image.new("L", (big, big), 0)
+    ImageDraw.Draw(mask).ellipse((0, 0, big - 1, big - 1), fill=255)
+    out = Image.new("RGBA", (big, big), (0, 0, 0, 0))
+    out.paste(im, (0, 0), mask)
+    out = out.resize((size, size), Image.LANCZOS)
+    out_path.parent.mkdir(parents=True, exist_ok=True)
+    out.save(out_path, "PNG")
+    print(f"[avatar] {out_path.name}")
 
 
 def _vertical_gradient(w, h, top, bottom):
@@ -323,3 +351,17 @@ def ensure_thumb(slug: str, date_iso: str, date_label: str, title: str,
 
     compose(title, date_iso, date_label, out_path)
     return "compose"
+
+
+def regenerate_site_avatars():
+    """サイトの三姉妹プロフィール用円形アバターを素材から再生成する。"""
+    out_dir = Path(r"C:\LupinusPrivate\images\image\avatars")
+    for c in ("lupinus", "iris", "fiona"):
+        src = ICONS_DIR / f"{c}_normal.png"
+        make_site_avatar(src, 200, out_dir / f"{c}.png")
+
+
+if __name__ == "__main__":
+    import sys
+    if len(sys.argv) > 1 and sys.argv[1] == "avatars":
+        regenerate_site_avatars()
